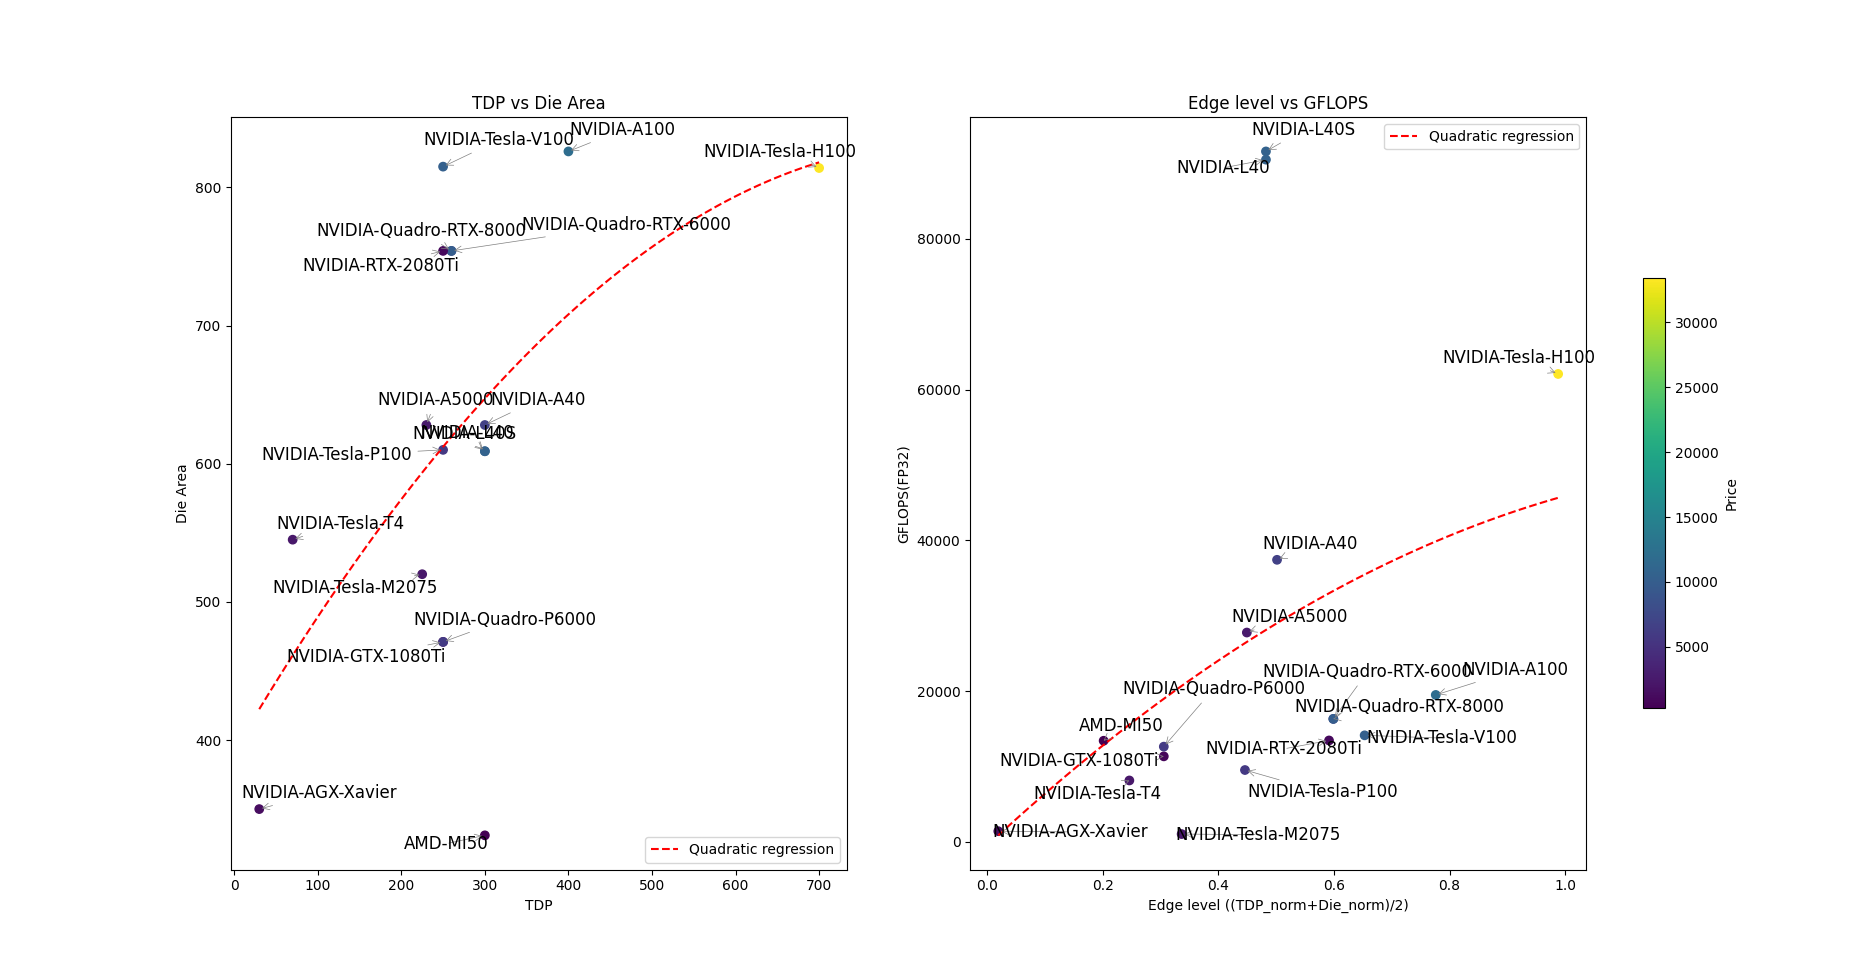
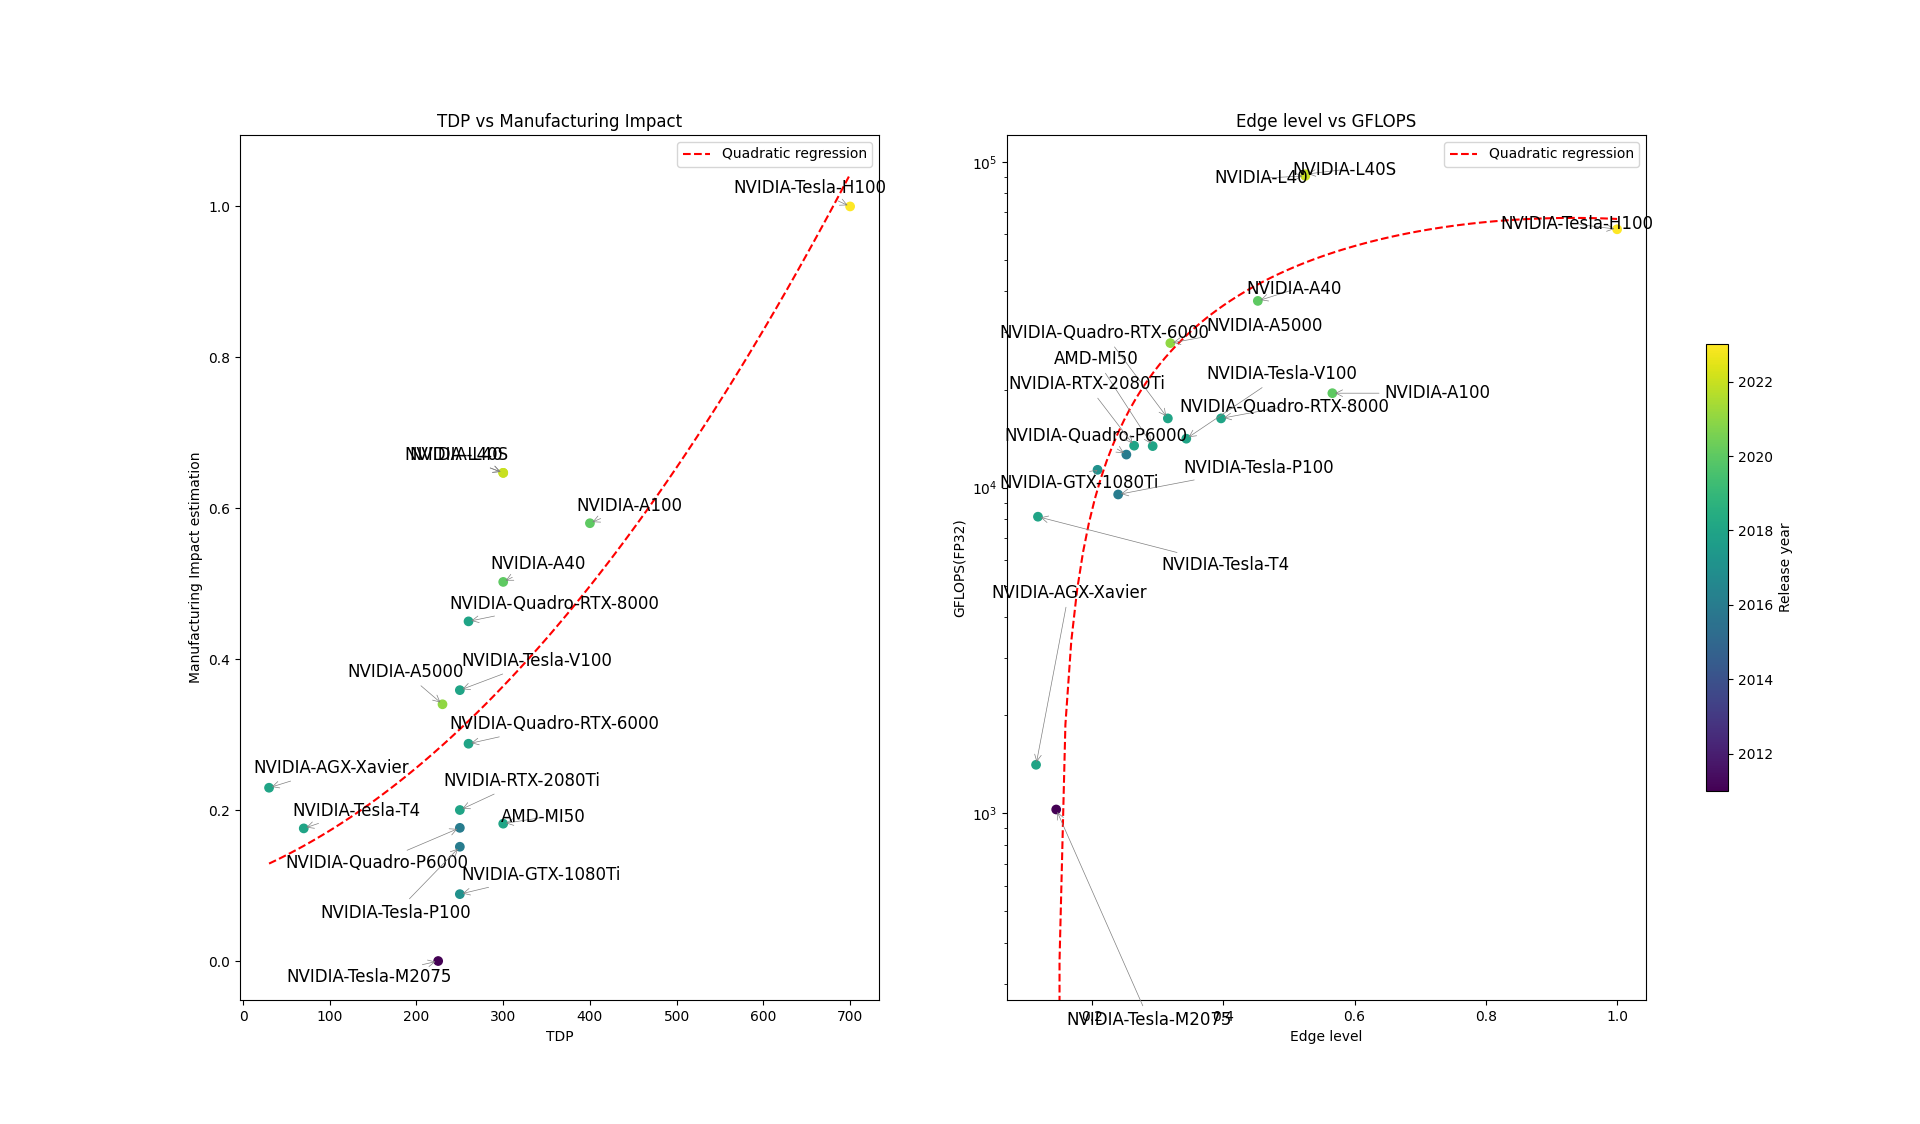
update after meeting

diff --git a/plot_g5k.py b/plot_g5k.py
@@ -11,33 +11,41 @@ die_area = data['Die_area']
 tdp = data['TDP']
 gflops = data['GFLOPS']
 price = data['price']
-env = (((tdp-tdp.min())/(tdp.max()-tdp.min()))+((die_area-die_area.min())/(die_area.max()-die_area.min())))/2
+tech_node = data['Tech_node']
+date = data['date']
+mem = data['Memory']
+proc = (die_area*pow(10,6))/tech_node
+
+norm_proc = (proc-proc.min())/(proc.max()-proc.min())
+norm_mem = (mem-mem.min())/(mem.max()-mem.min())
+manufacturing_impact = (norm_proc+norm_mem)/2
+env = (((tdp-tdp.min())/(tdp.max()-tdp.min()))+manufacturing_impact)/2
 fig, axes = plt.subplots(nrows=1, ncols=2, figsize=(20, 7))
-print(env)
-norm = plt.Normalize(vmin=price.min(), vmax=price.max())
+
+norm = plt.Normalize(vmin=date.min(), vmax=date.max())
 cmap = plt.cm.viridis
 
 
-sc1 = axes[0].scatter(tdp, die_area, c=price, cmap=cmap, norm=norm)
+sc1 = axes[0].scatter(tdp, manufacturing_impact, c=date, cmap=cmap, norm=norm)
 
 
-coeffs1 = np.polyfit(tdp, die_area, 2)
+coeffs1 = np.polyfit(tdp, manufacturing_impact, 2)
 poly1 = np.poly1d(coeffs1)
 x_range = np.linspace(min(tdp), max(tdp), 100)
 axes[0].plot(x_range, poly1(x_range), color='red', linestyle='--', label="Quadratic regression")
 
 texts = []
 for i, name in enumerate(names):
-    texts.append(axes[0].annotate(name, (tdp[i], die_area[i]), fontsize=12, ha='right',
+    texts.append(axes[0].annotate(name, (tdp[i], manufacturing_impact[i]), fontsize=12, ha='right',
                                   arrowprops=dict(arrowstyle="->", lw=0.5, color='gray')))
 adjust_text(texts, only_move={'points':'xy', 'text':'xy'}, max_move=(10,10), ax=axes[0])
 axes[0].set_xlabel('TDP')
-axes[0].set_ylabel('Die Area')
-axes[0].set_title('TDP vs Die Area')
+axes[0].set_ylabel('Manufacturing Impact estimation')
+axes[0].set_title('TDP vs Manufacturing Impact')
 axes[0].legend()
 
 
-sc2 = axes[1].scatter(env, gflops, c=price, cmap=cmap, norm=norm)
+sc2 = axes[1].scatter(env, gflops, c=date, cmap=cmap, norm=norm)
 
 
 coeffs2 = np.polyfit(env, gflops, 2)
@@ -50,13 +58,14 @@ for i, name in enumerate(names):
     texts.append(axes[1].annotate(name, (env[i], gflops[i]), fontsize=12, ha='right',
                                   arrowprops=dict(arrowstyle="->", lw=0.5, color='gray')))
 adjust_text(texts, only_move={'points':'xy', 'text':'xy'}, max_move=(10,10), ax=axes[1])
-axes[1].set_xlabel('Edge level ((TDP_norm+Die_norm)/2)')
+axes[1].set_xlabel('Edge level')
 axes[1].set_ylabel('GFLOPS(FP32)')
+axes[1].set_yscale('log')
 axes[1].set_title('Edge level vs GFLOPS')
 axes[1].legend()
 
 
 cbar = fig.colorbar(sc1, ax=axes, orientation='vertical', fraction=0.015, pad=0.04)
-cbar.set_label('Price')
+cbar.set_label('Release year')
 
 plt.show()
